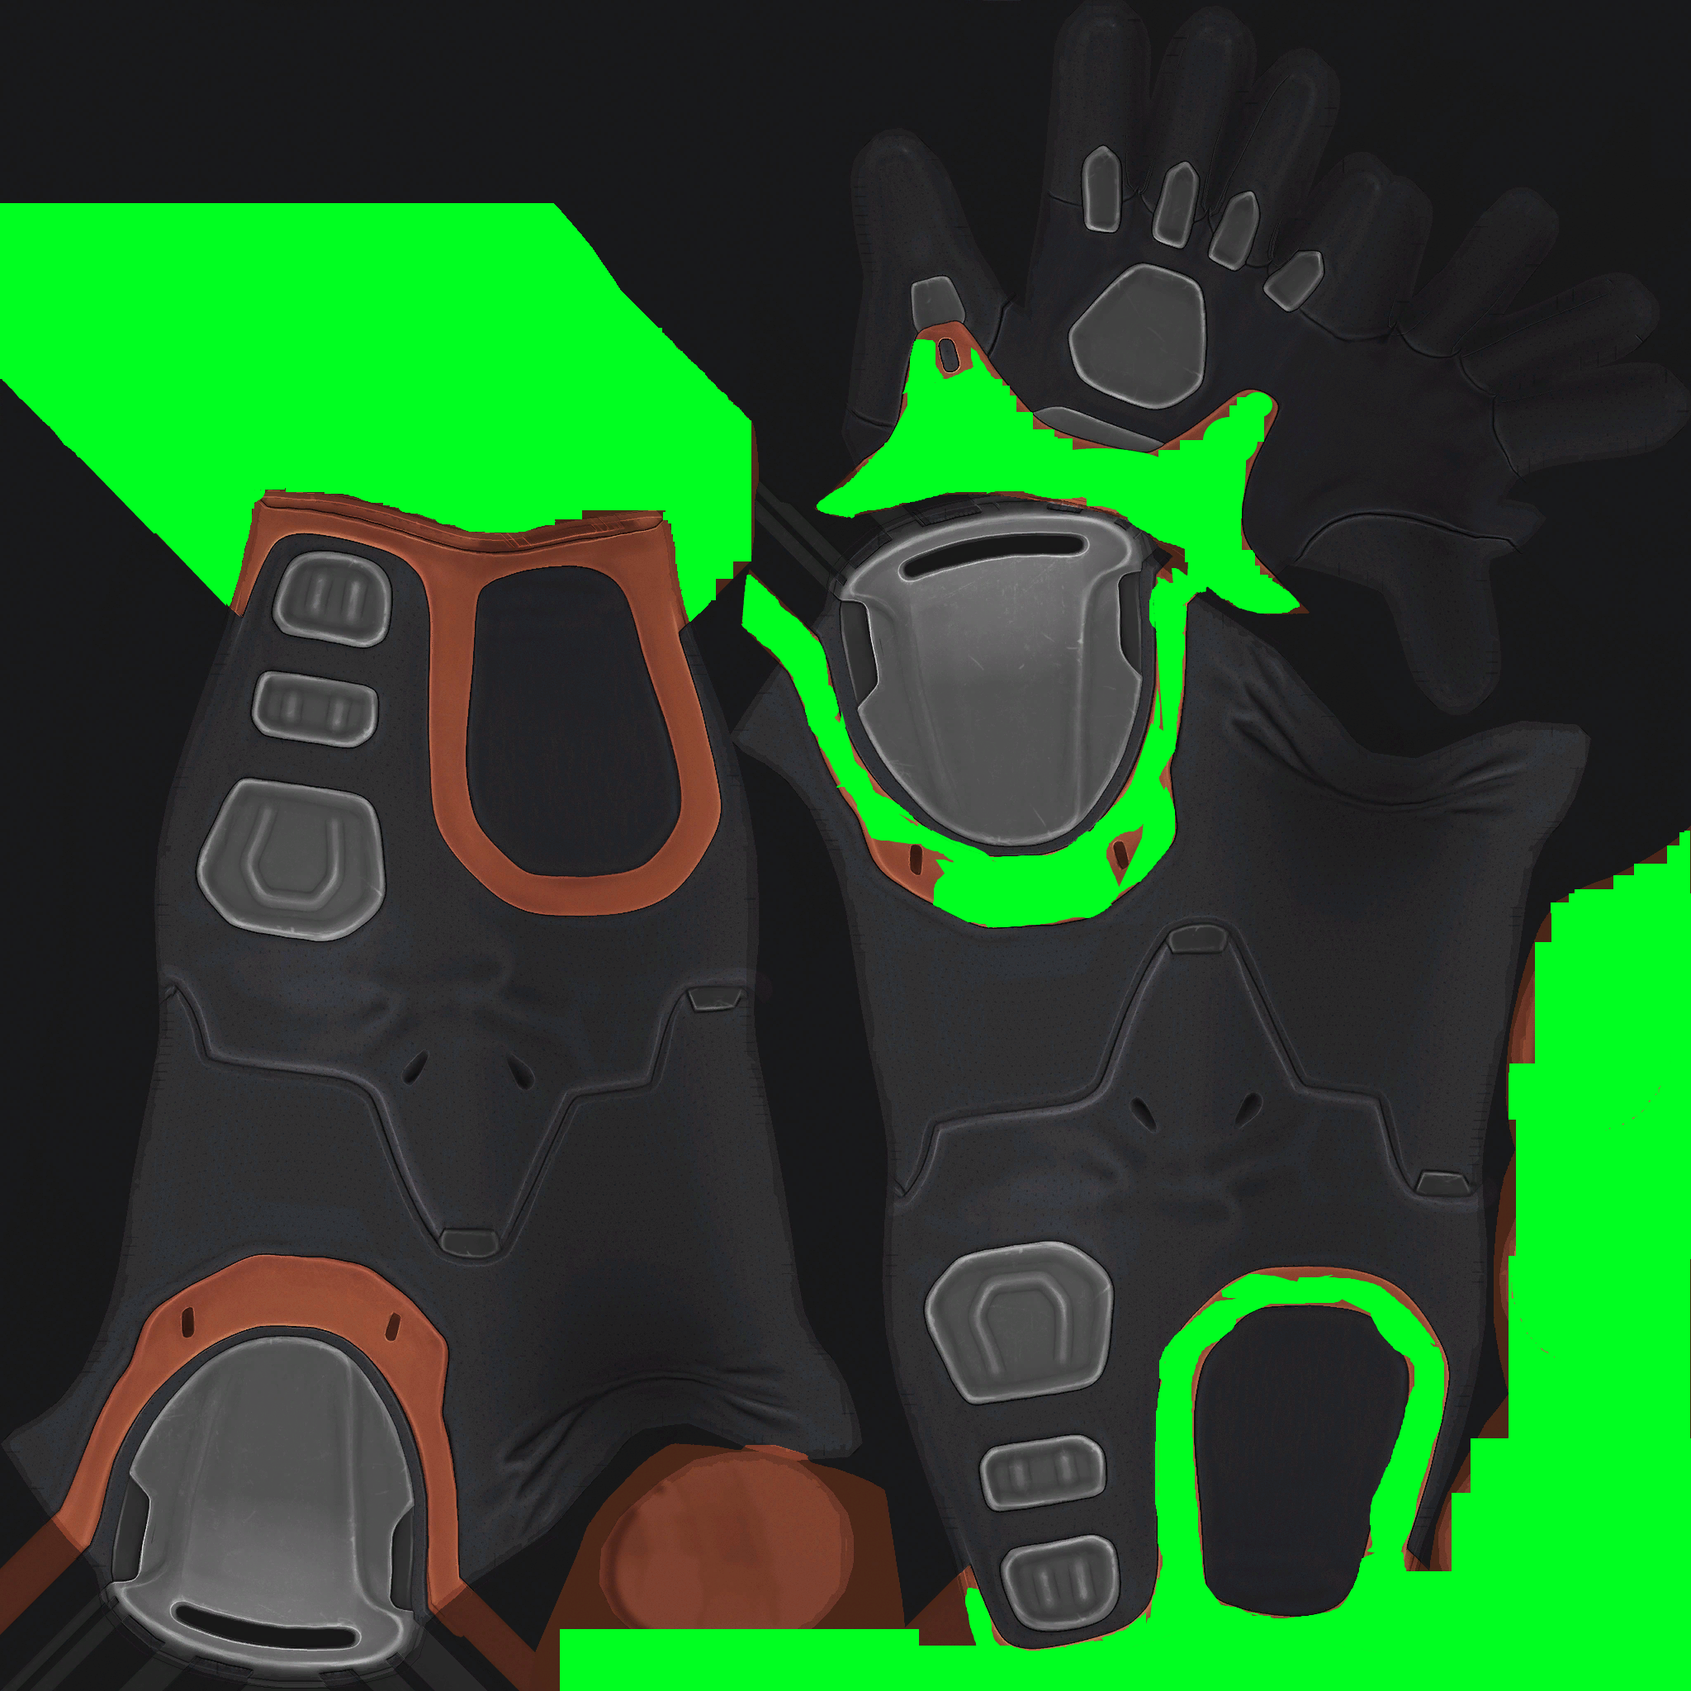
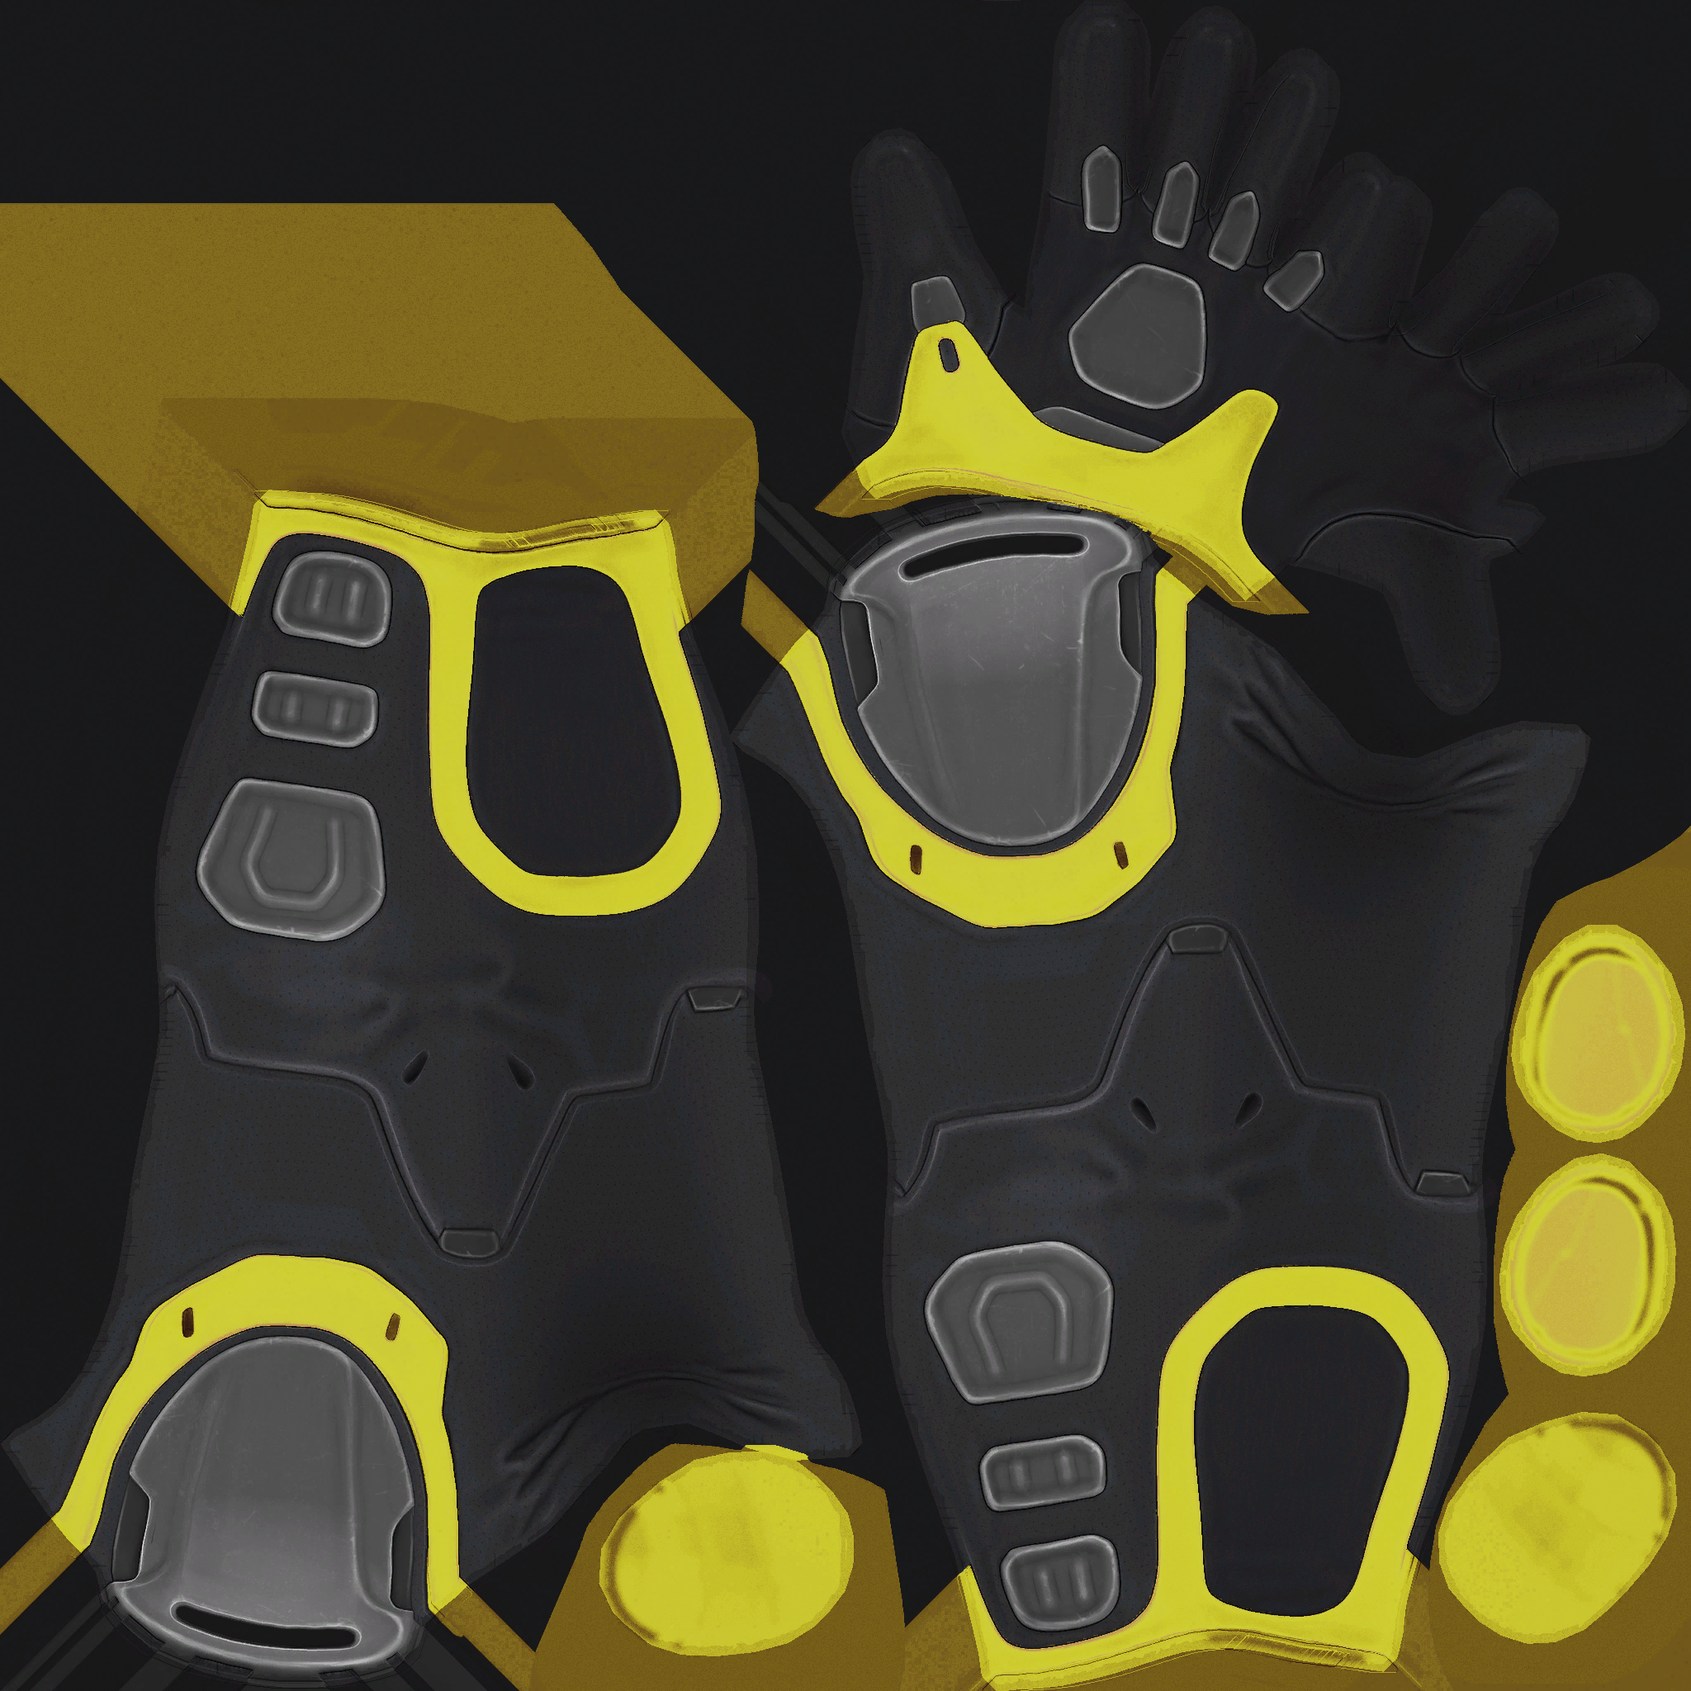
Fixes and texture implementation
Bug fixes; Textures from AndreaDev3D now working thanks to work by Metious

Changed region(s): [[0.0, 0.0938, 0.7812, 0.5625], [0.0, 0.5, 1.0, 1.0]]

diff --git a/AcidProofSuit/Patches/Patches.cs b/AcidProofSuit/Patches/Patches.cs
@@ -14,6 +14,26 @@ using System.IO;
 
 namespace AcidProofSuit.Patches
 {
+    // Horrible hack, destroy ASAP
+    [HarmonyPatch(typeof(Equipment), nameof(Equipment.GetTechTypeInSlot))]
+    internal class Equipment_GetTechTypeInSlot_Patch
+    {
+        [HarmonyPostfix]
+        public static TechType Postfix(TechType __result, ref Equipment __instance, string slot)
+        {
+            if (!Main.bNoPatchTechtypeInSlot)
+            {
+                if (slot == "Body") // This could be changed to an array or list easily-enough if we need to patch other slots.	
+                {
+                    //Logger.Log(Logger.Level.Debug, $"Equipment_GetTechTypeInSlot_Patch.Postfix: calling Main.GetTechTypeInSlot_Patch({__result}, {slot})");	
+                    __result = Main.GetTechTypeInSlot_Patch(__result, slot);
+                    //Logger.Log(Logger.Level.Debug, $"Main.GetTechTypeInSlot_Patch() returned result {__result}");	
+                }
+            }
+            return __result;
+        }
+    }
+
     [HarmonyPatch(typeof(Equipment), nameof(Equipment.GetCount))]
     internal class Equipment_GetCount_Patch
     {
@@ -136,6 +156,7 @@ namespace AcidProofSuit.Patches
             //Texture2D glovesTexture = ImageUtils.LoadTextureFromFile(Path.Combine(Main.AssetsFolder, "AcidGlovesskin.png"));
             //Texture2D suitTexture = ImageUtils.LoadTextureFromFile(Path.Combine(Main.AssetsFolder, "AcidSuitskin.png"));
             bool bUseCustomTex = (Main.suitTexture != null && Main.glovesTexture != null);
+            Logger.Log(Logger.Level.Debug, $"Player_EquipmentChanged_Patch.Postfix: slot = {slot}");
             Equipment equipment = Inventory.main.equipment;
             int num = __instance.equipmentModels.Length;
             //for(int i = 0; i < num; i++)
@@ -150,8 +171,8 @@ namespace AcidProofSuit.Patches
                   continue;
 
                 bool flag = false;
-
-                foreach(Player.EquipmentModel equipmentModel in equipmentType.equipment)
+                Logger.Log(Logger.Level.Debug, $"checking equipmentModels for TechType {techTypeInSlot.ToString()}");
+                foreach (Player.EquipmentModel equipmentModel in equipmentType.equipment)
                 {
                     //Player.EquipmentModel equipmentModel = equipmentType.equipment[j];
                     bool equipmentVisibility = (equipmentModel.techType == techTypeInSlot);
@@ -163,40 +184,73 @@ namespace AcidProofSuit.Patches
                         shader = Shader.Find("MarmosetUBER");
                         GameObject playerModel = Player.main.gameObject;
                         // find the gloves material and get it's renderer
+                        Logger.Log(Logger.Level.Debug, $"find the gloves material and get it's renderer");
                         reinforcedGloves = playerModel.transform.Find("body/player_view/male_geo/reinforcedSuit/reinforced_suit_01_glove_geo").gameObject.GetComponent<Renderer>();
                         // find the suit material and get it's renderer
+                        Logger.Log(Logger.Level.Debug, $"find the suit material and get it's renderer");
                         reinforcedSuit = playerModel.transform.Find("body/player_view/male_geo/reinforcedSuit/reinforced_suit_01_body_geo").gameObject.GetComponent<Renderer>();
+                        //bUseCustomTex = (shader != null && reinforcedGloves != null && reinforcedSuit != null);
+                        if (shader == null)
+                        {
+                            Logger.Log(Logger.Level.Debug, $"Shader is null, custom texture disabled");
+                            bUseCustomTex = false;
+                        }
+                        else if (reinforcedGloves == null)
+                        {
+                            Logger.Log(Logger.Level.Debug, $"Shader is null, custom texture disabled");
+                            bUseCustomTex = false;
+                        }
+                        else if (reinforcedGloves == null)
+                        {
+                            Logger.Log(Logger.Level.Debug, $"Shader is null, custom texture disabled");
+                            bUseCustomTex = false;
+                        }
                     }
 
-                    flag = (flag || equipmentVisibility)
+                    flag = (flag || equipmentVisibility);
                     if (equipmentModel.model)
                     {
                         if (bUseCustomTex)
                         {
                             // if the gloves shader isn't null, add the shader
-                            if (reinforcedGloves.material.shader != null)
-                                reinforcedGloves.material.shader = shader;
-                            // if the suit's shader isn't null, add the shader
-                            if (reinforcedSuit.material.shader != null)
+                            if (reinforcedGloves != null // This shouldn't be necessary but I'm taking no chances
+                                && reinforcedGloves.material != null)
+                            {
+                                if (reinforcedGloves.material.shader != null)
+                                    reinforcedGloves.material.shader = shader;
+                                // add the gloves main Texture when equipped
+                                Logger.Log(Logger.Level.Debug, $"add the gloves main Texture when equipped");
+                                reinforcedGloves.material.mainTexture = Main.glovesTexture;
+                                // add  the gloves illum texture when equipped
+                                Logger.Log(Logger.Level.Debug, $"add  the gloves illum texture when equipped"); 
+                                reinforcedGloves.material.SetTexture(ShaderPropertyID._Illum, Main.glovesIllumTexture);
+                                // add  the gloves spec texture when equipped
+                                Logger.Log(Logger.Level.Debug, $"add  the gloves spec texture when equipped"); 
+                                reinforcedGloves.material.SetTexture(ShaderPropertyID._SpecTex, Main.glovesTexture);
+                                // add the suit main Texture when equipped
+                                // if the suit's shader isn't null, add the shader
+                            }
+                            if (reinforcedSuit.material != null
+                                && reinforcedSuit.material.shader != null)
+                            {
                                 reinforcedSuit.material.shader = shader;
-                            // add the gloves main Texture when equipped
-                            reinforcedGloves.material.mainTexture = Main.glovesTexture;
-                            // add  the gloves illum texture when equipped
-                            reinforcedGloves.material.SetTexture(ShaderPropertyID._Illum, Main.glovesIllumTexture);
-                            // add  the gloves spec texture when equipped
-                            reinforcedGloves.material.SetTexture(ShaderPropertyID._SpecTex, Main.glovesTexture);
-                            // add the suit main Texture when equipped
-                            reinforcedSuit.material.mainTexture = Main.suitTexture;
-                            // add the suit spec texture when equipped
-                            reinforcedSuit.material.SetTexture(ShaderPropertyID._SpecTex, Main.suitTexture);
-                            // add  the suit illum Texture when equipped
-                            reinforcedSuit.material.SetTexture(ShaderPropertyID._Illum, Main.suitIllumTexture);
-                            // add the suit's arms main Texture when equipped
-                            reinforcedSuit.materials[1].mainTexture = Main.glovesTexture;
-                            // add the suit's arms spec Texture when equipped
-                            reinforcedSuit.materials[1].SetTexture(ShaderPropertyID._SpecTex, Main.glovesTexture);
-                            // add the suit's arms illum texture when equipped
-                            reinforcedSuit.materials[1].SetTexture(ShaderPropertyID._Illum, Main.glovesIllumTexture);
+                                reinforcedSuit.material.mainTexture = Main.suitTexture;
+                                // add the suit spec texture when equipped
+                                Logger.Log(Logger.Level.Debug, $"add the suit spec texture when equipped");
+                                reinforcedSuit.material.SetTexture(ShaderPropertyID._SpecTex, Main.suitTexture);
+                                // add  the suit illum Texture when equipped
+                                Logger.Log(Logger.Level.Debug, $"add  the suit illum Texture when equipped");
+                                reinforcedSuit.material.SetTexture(ShaderPropertyID._Illum, Main.suitIllumTexture);
+                                // add the suit's arms main Texture when equipped
+                                Logger.Log(Logger.Level.Debug, $"add the suit's arms main Texture when equipped");
+                                reinforcedSuit.materials[1].mainTexture = Main.glovesTexture;
+                                // add the suit's arms spec Texture when equipped
+                                Logger.Log(Logger.Level.Debug, $"add the suit's arms spec Texture when equipped");
+                                reinforcedSuit.materials[1].SetTexture(ShaderPropertyID._SpecTex, Main.glovesTexture);
+                                // add the suit's arms illum texture when equipped
+                                Logger.Log(Logger.Level.Debug, $"add the suit's arms illum texture when equipped");
+                                reinforcedSuit.materials[1].SetTexture(ShaderPropertyID._Illum, Main.glovesIllumTexture);
+                            }
                         }
 
                         equipmentModel.model.SetActive(equipmentVisibility);

diff --git a/AcidProofSuit/Main.cs b/AcidProofSuit/Main.cs
@@ -44,16 +44,71 @@ namespace AcidProofSuit
 
         private static readonly Type NitrogenMain = Type.GetType("NitrogenMod.Main, NitrogenMod", false, false);
         private static readonly MethodInfo NitroAddDiveSuit = NitrogenMain?.GetMethod("AddDiveSuit", BindingFlags.Public | BindingFlags.Static);
-        private static readonly Texture2D glovesTexture = ImageUtils.LoadTextureFromFile(Path.Combine(Main.AssetsFolder, "AcidGlovesskin.png"));
-        private static readonly Texture2D suitTexture = ImageUtils.LoadTextureFromFile(Path.Combine(Main.AssetsFolder, "AcidSuitskin.png"));
-        private static readonly Texture2D glovesIllumTexture = ImageUtils.LoadTextureFromFile(Path.Combine(Main.AssetsFolder, "AcidGlovesillum.png"));
-        private static readonly Texture2D suitIllumTexture = ImageUtils.LoadTextureFromFile(Path.Combine(Main.AssetsFolder, "AcidSuitillum.png"));
+        internal static readonly Texture2D glovesTexture = ImageUtils.LoadTextureFromFile(Path.Combine(Main.AssetsFolder, "AcidGlovesskin.png"));
+        internal static readonly Texture2D suitTexture = ImageUtils.LoadTextureFromFile(Path.Combine(Main.AssetsFolder, "AcidSuitskin.png"));
+        internal static readonly Texture2D glovesIllumTexture = ImageUtils.LoadTextureFromFile(Path.Combine(Main.AssetsFolder, "AcidGlovesillum.png"));
+        internal static readonly Texture2D suitIllumTexture = ImageUtils.LoadTextureFromFile(Path.Combine(Main.AssetsFolder, "AcidSuitillum.png"));
 
         public static bool bUseNitrogenAPI; // If true, use the Nitrogen API instead of patching GetTechTypeInSlot. Overrides bNoPatchTechTypeInSlot.
+        public static bool bNoPatchTechtypeInSlot = false; // If true, skips any custom processing of GetTechTypeInSlot
+        public static TechType GetTechTypeInSlot_Patch(TechType input, string slot)
+        {
+            // This is a horrible, horrible, HORRIBLE hack and I will kill it as soon as I'm able.
+            if (bUseNitrogenAPI)
+            {
+                Logger.Log(Logger.Level.Debug, $"GetTechTypeInSlot_Patch: Skipping execution because Nitrogen API is available.");
+                return input;
+            }
+
+            if (bNoPatchTechtypeInSlot)
+            {
+                Logger.Log(Logger.Level.Debug, $"GetTechTypeInSlot_Patch skipped because bNoPatchTechtypeInSlot, returning result {input.ToString()}");	
+                return input;
+            }
+
+            if (slot != "Body")
+            {
+                Logger.Log(Logger.Level.Debug, $"GetTechTypeInSlot_Patch skipped because slot != Body");	
+                return input;
+            }
+            Logger.Log(Logger.Level.Debug, $"GetTechTypeInSlot_Patch called with values for input of {input.ToString()} and slot {slot}");	
+            if (input == prefabSuitMk1.TechType || input == prefabSuitMk2.TechType || input == prefabSuitMk3.TechType)
+                return TechType.ReinforcedDiveSuit;
+            else if (input == prefabGloves.TechType)
+                return TechType.ReinforcedGloves;
+            else if (HasNitrogenMod())
+            {
+                TechType suitMk2 = GetNitrogenTechtype("reinforcedsuit2");
+                TechType suitMk3 = GetNitrogenTechtype("reinforcedsuit3");
+                if (suitMk2 == TechType.None)
+                {
+                    Logger.Log(Logger.Level.Debug, $"Could not find reinforcedsuit2 TechType");
+                    return input;
+                }
+
+                if (suitMk3 == TechType.None)
+                {
+                    Logger.Log(Logger.Level.Debug, $"Could not find reinforcedsuit3 TechType");
+                    return input;
+                }
+
+                if (input == prefabSuitMk2.TechType)
+                {
+                    return suitMk2;
+                }
+                else if (input == prefabSuitMk3.TechType)
+                {
+                    return suitMk3;
+                }
+            }
+
+            return input;
+        }
+
 
         // Get total amount equipped from a list
         public static int EquipmentGetCount(Equipment e, TechType[] techTypes)
-        {
+            {
             int count = 0;
             foreach (TechType tt in techTypes)
             {

diff --git a/NamedVehiclePrompts/Patches/Patches.cs b/NamedVehiclePrompts/Patches/Patches.cs
@@ -78,55 +78,6 @@ namespace NamedVehiclePrompts.Patches
             }
         }*/
 
-        /*[HarmonyPatch(typeof(UseableDiveHatch), nameof(UseableDiveHatch.OnHandHover))]
-        public static class UseableDiveHatch_OnHandHover_Patch
-        {
-            static int timer = 0;
-
-            [HarmonyPrefix]
-            public static bool Prefix(ref UseableDiveHatch __instance, GUIHand hand)
-            {
-                if (timer > 0)
-                {
-                    timer--;
-                }
-                else
-                {
-                    Logger.Log(Logger.Level.Debug, $"UseableDiveHatch_OnHandHover_Patch.Prefix() executing", null, true);
-                    timer = 30;
-                }
-
-                if(!__instance.enabled)
-                {
-                    return false;
-                }
-                string interactText = (Player.main.IsInsideWalkable() && Player.main.currentWaterPark == null) ? __instance.exitCustomText : __instance.enterCustomText;
-                if (__instance.enterOnly)
-                {
-                    interactText = __instance.enterCustomText;
-                }
-                string result = "";
-                SubRoot currentSub = Player.main.GetCurrentSub();
-                string subName = "";
-                if(currentSub != null)
-                {
-                    subName = currentSub.GetSubName();
-                    if (Main.TryGetVehiclePrompt(interactText, Language.main.GetCurrentLanguage(), subName, out result))
-                    {
-                        interactText = result;
-                    }
-                    else if (timer == 30)
-                    {
-                        Logger.Log(Logger.Level.Debug, $"Couldn't retrieve text value for key {interactText}", null, true);
-                    }
-                }
-                HandReticle.main.SetInteractText(interactText);
-                HandReticle.main.SetIcon(HandReticle.IconType.Hand, 1f);
-
-                return false;
-            }
-        }*/
-
         [HarmonyPatch(typeof(Vehicle), nameof(Vehicle.OnHandHover))]
         public static class Vehicle_OnHandHover_Patch
         {
@@ -154,7 +105,7 @@ namespace NamedVehiclePrompts.Patches
                 }
                 if (success)
                 {
-                    if (!__instance.GetPilotingMode() /*&& __instance.GetEnabled()*/)
+                    if (!__instance.GetPilotingMode() && __instance.enabled /*&& __instance.GetEnabled()*/)
                     {
                         HandReticle.main.SetIcon(HandReticle.IconType.Hand, 1f);
                         HandReticle.main.SetInteractText(result);
